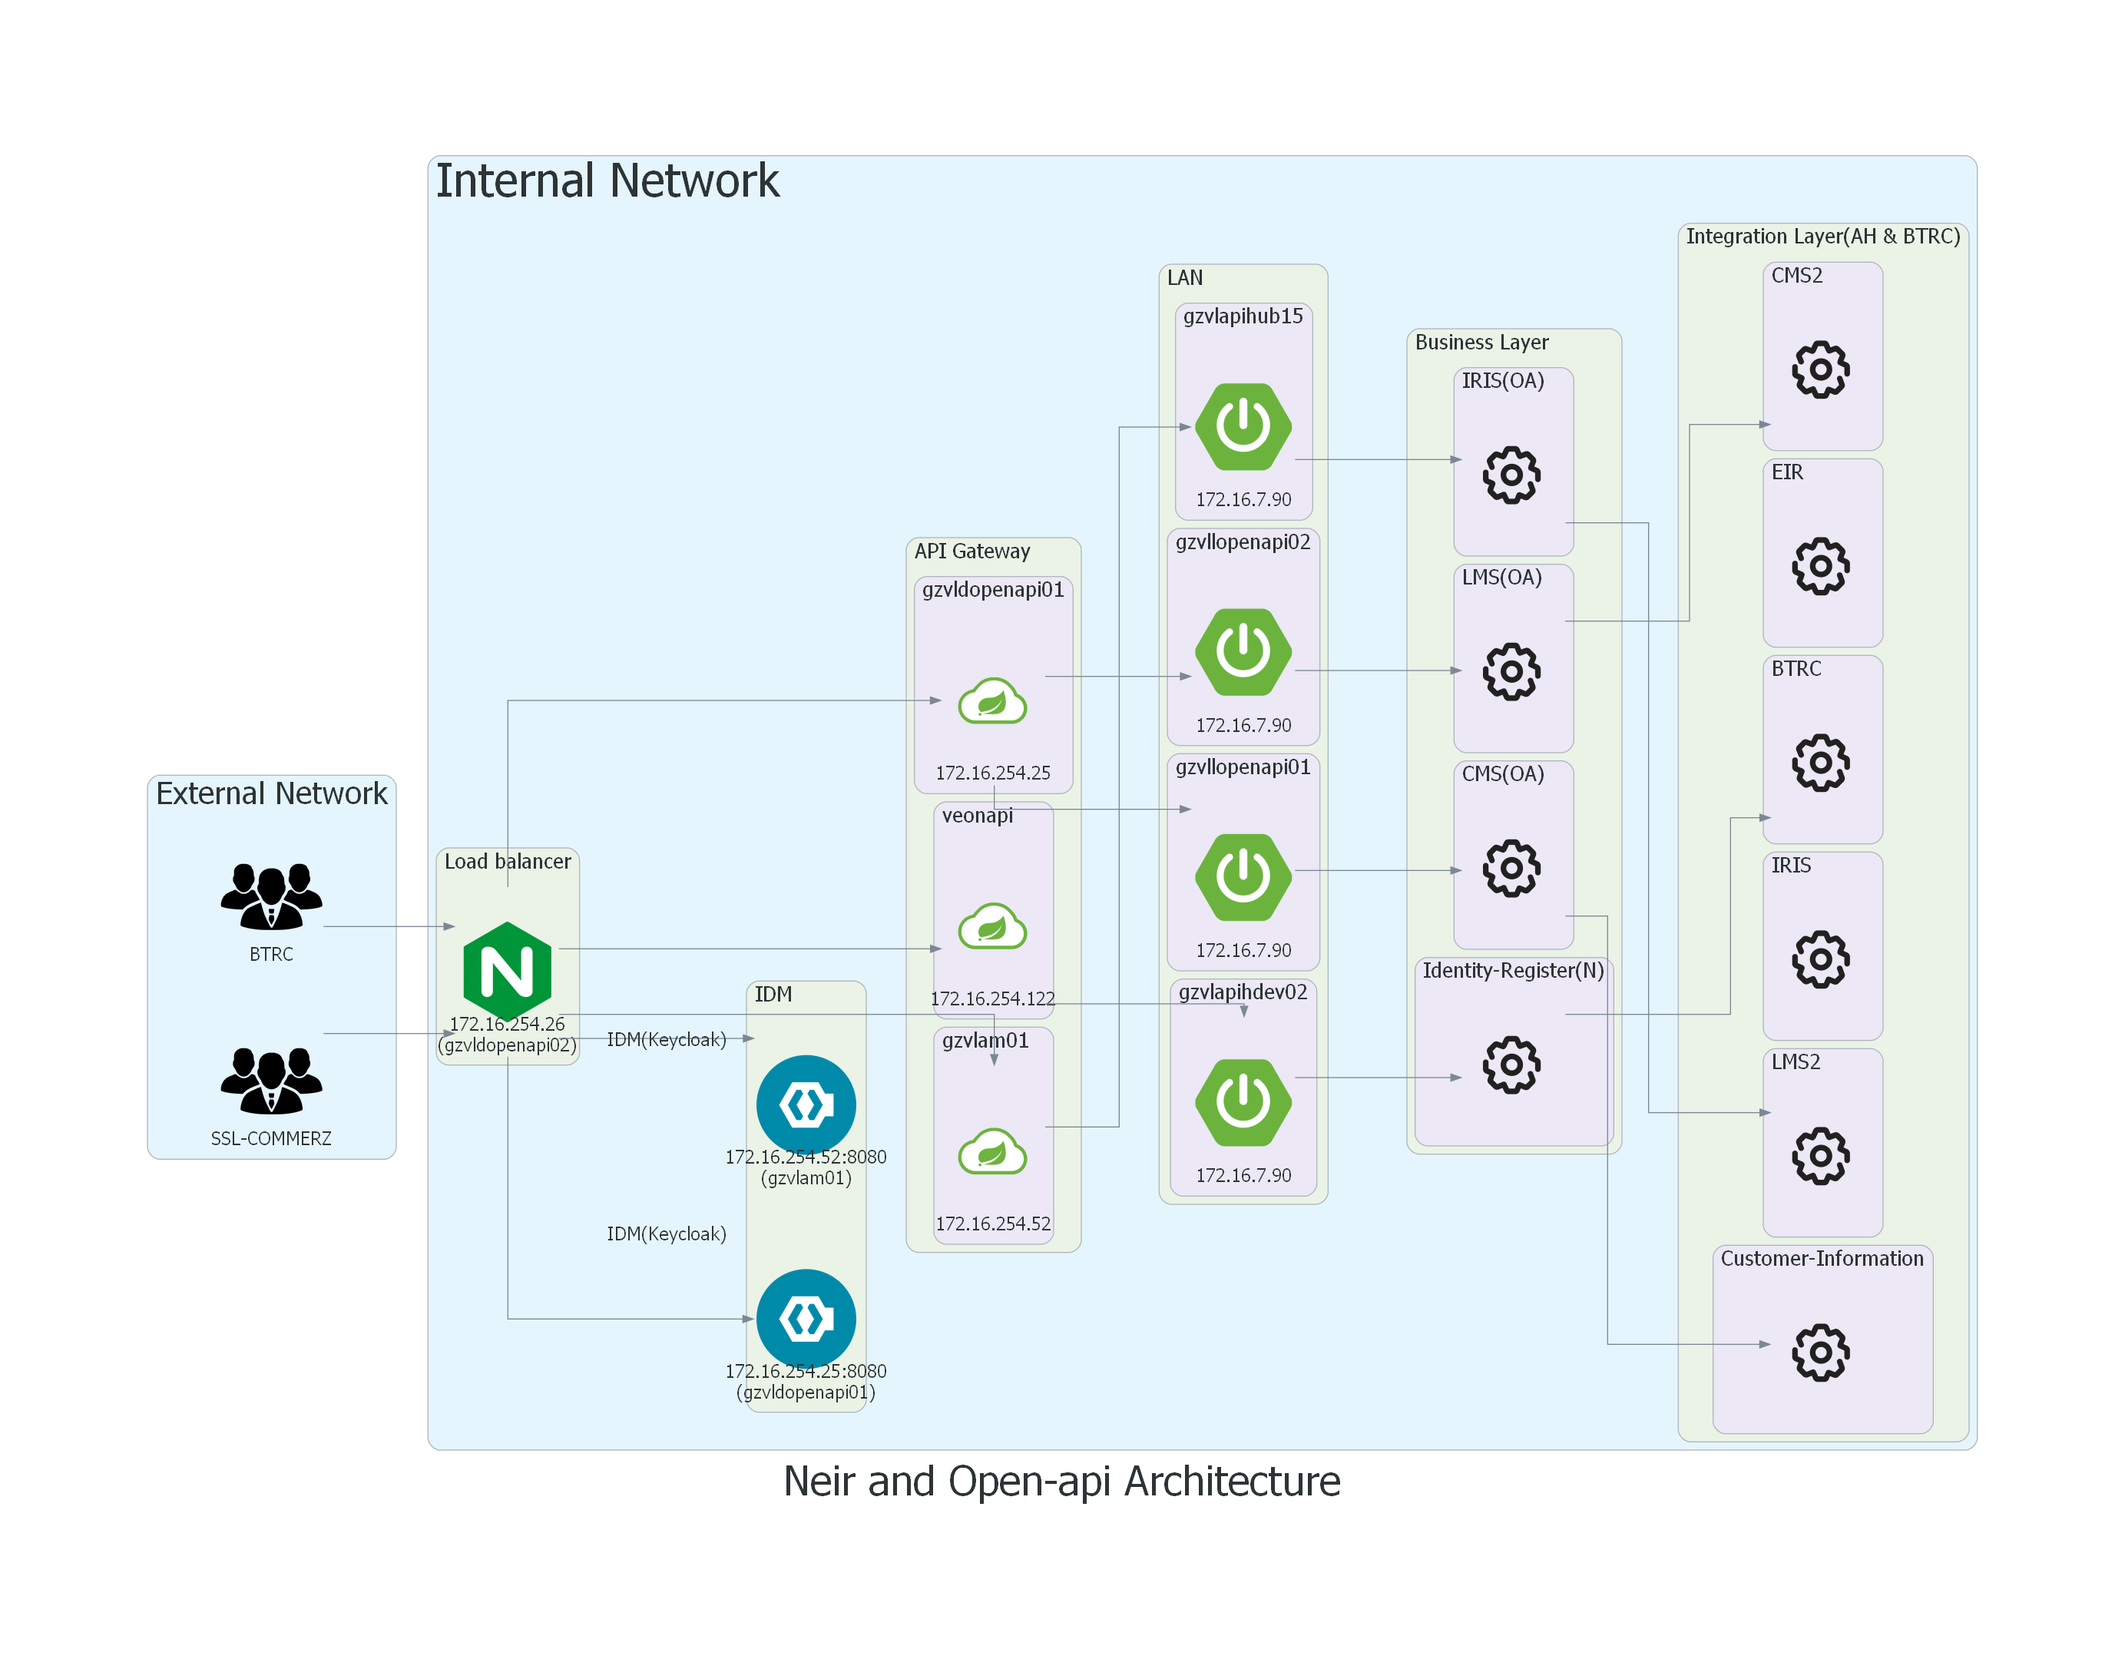
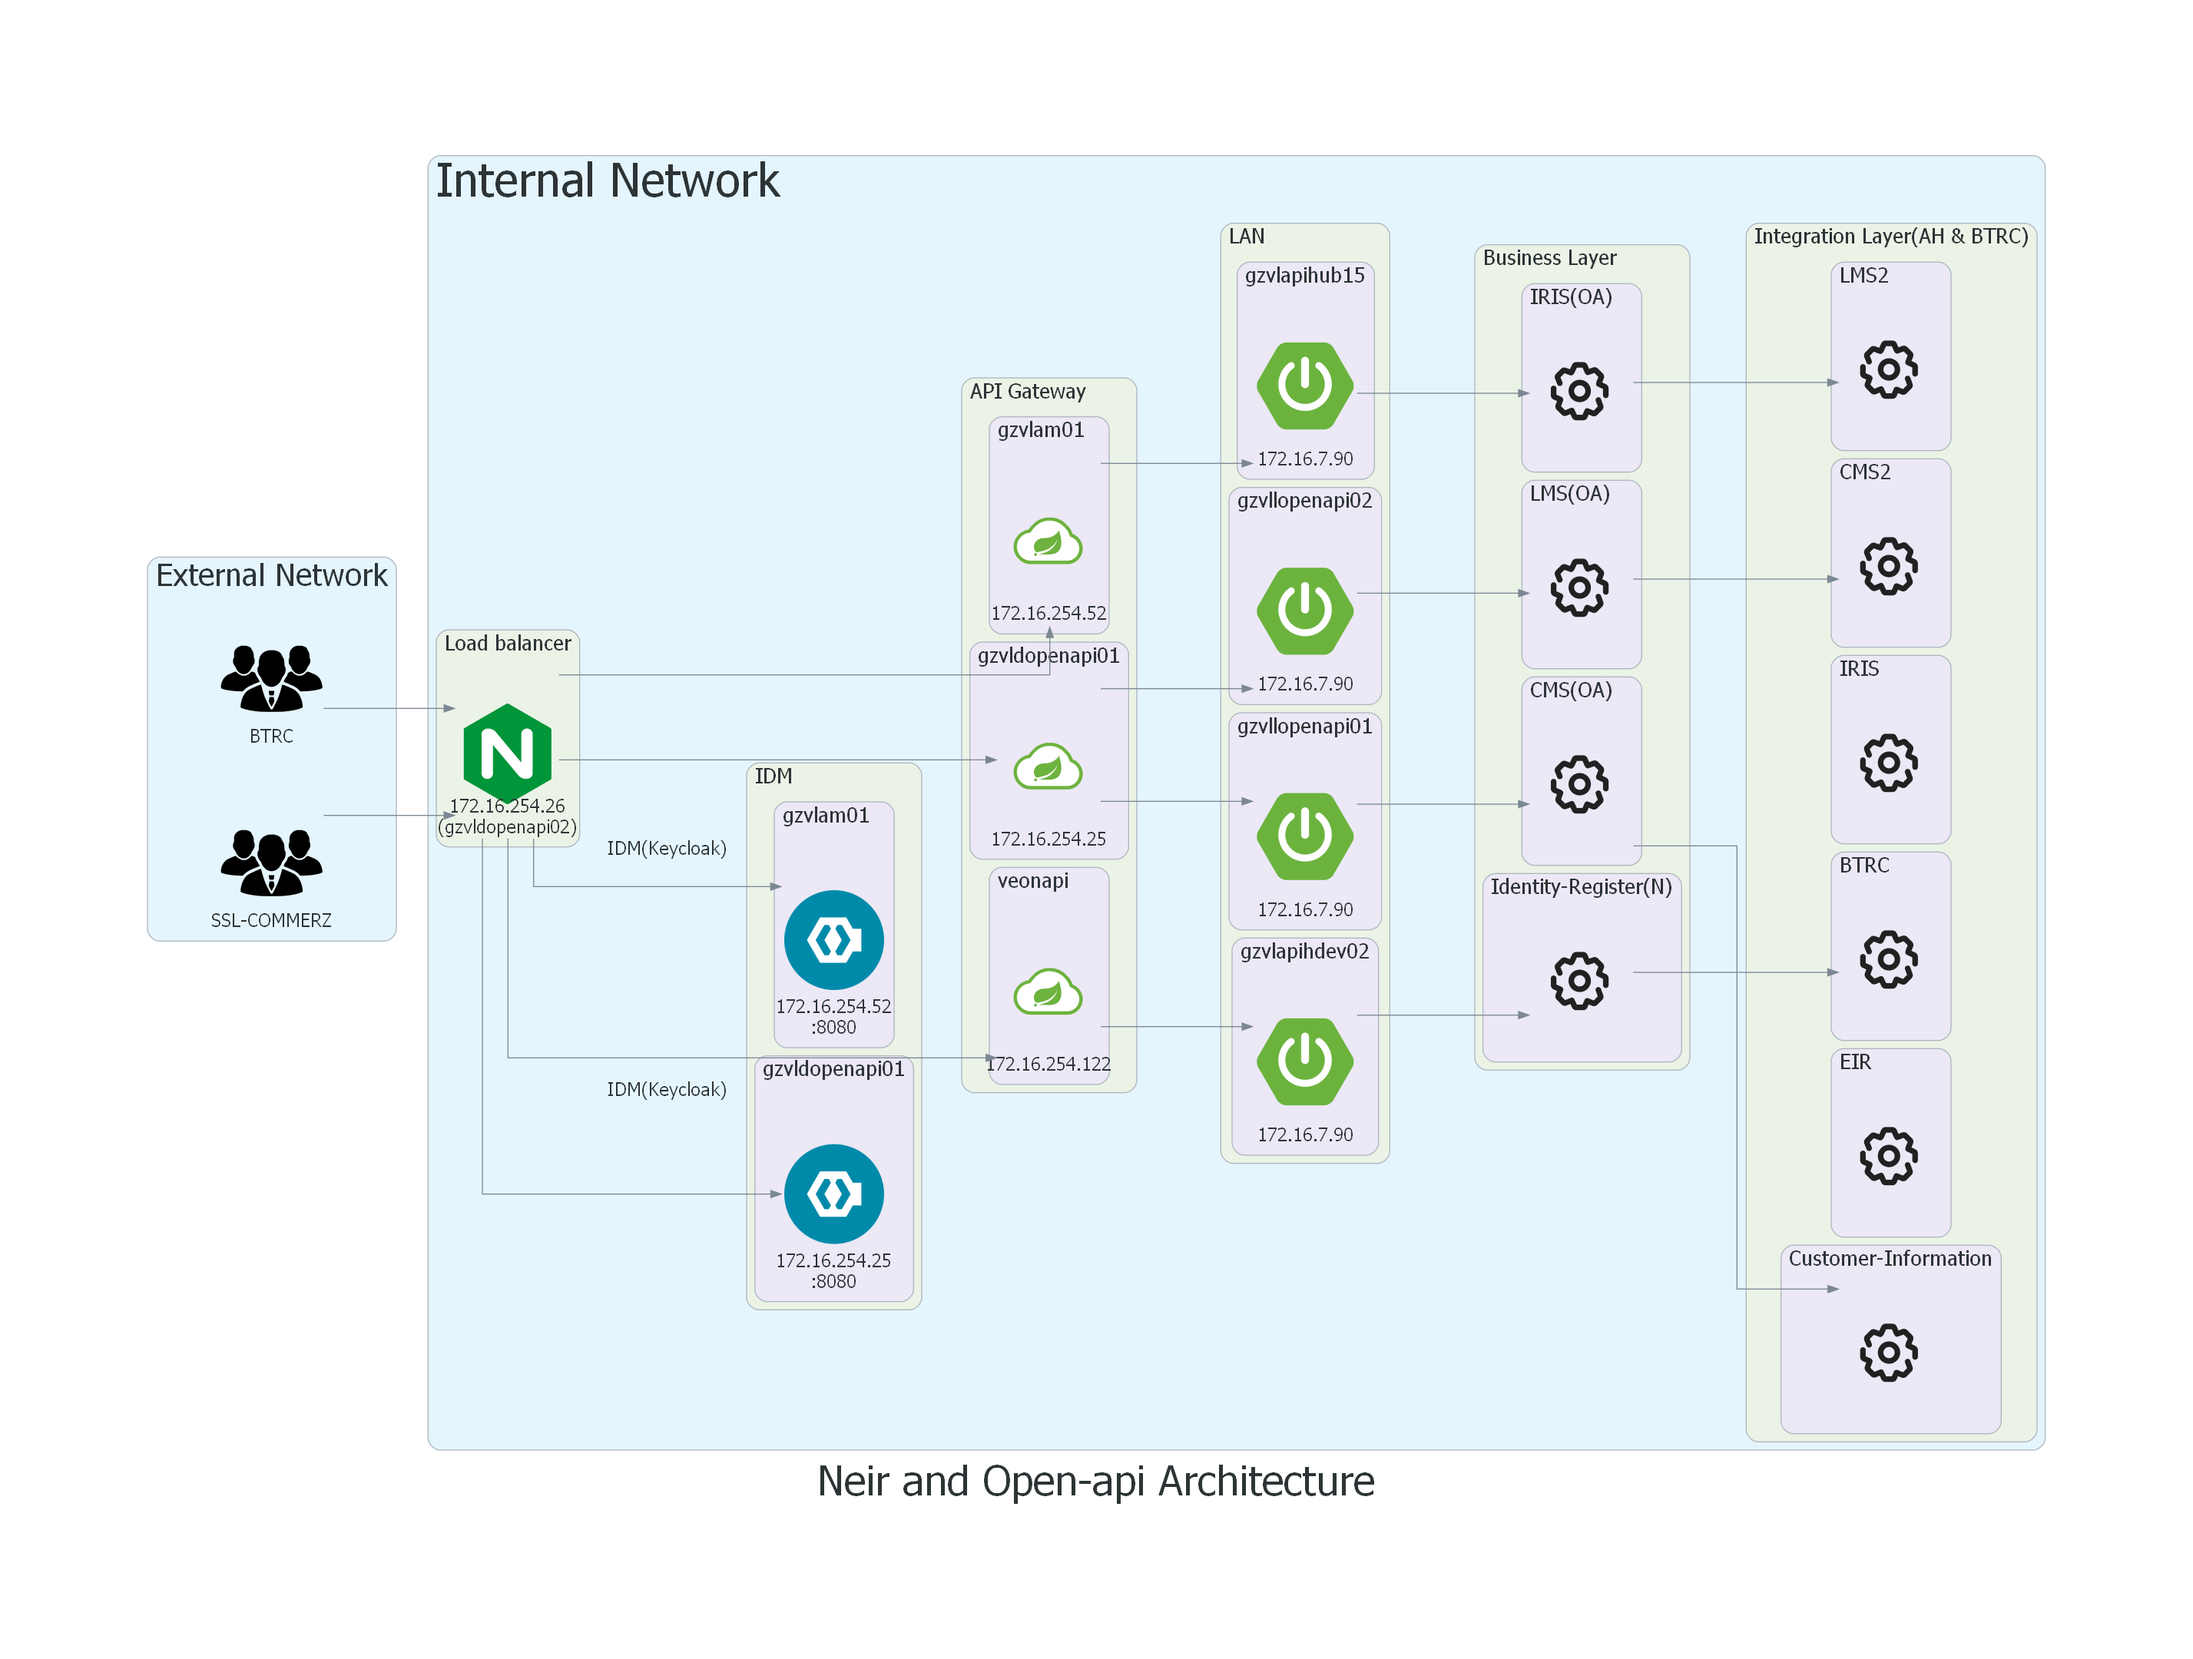
update 11

diff --git a/FinalDiagram.py b/FinalDiagram.py
@@ -15,7 +15,6 @@ srvc = "logos/services.png"
 
 
 graph_attr={
-    "margin-up": "600px",
     "fontsize":"40",
     "fontweight":"bold"
 }
@@ -40,9 +39,12 @@ with Diagram("Neir and Open-api Architecture", show=True,graph_attr=graph_attr):
         with Cluster("Load balancer",graph_attr=graph_font):
             lb = Custom("172.16.254.26\n(gzvldopenapi02)",loadBalancer,fontsize="18px")
         
-        with Cluster("IDM",graph_attr={"fontsize":"20","y":"500"}):
-            idm = [ Custom("172.16.254.25:8080\n(gzvldopenapi01)",IDM,fontsize="18px"),
-                    Custom("172.16.254.52:8080\n(gzvlam01)",IDM,fontsize="18px")]
+        with Cluster("IDM",graph_attr={"fontsize":"20","height":"500"}):
+            with Cluster('gzvldopenapi01',graph_attr=graph_font):
+                idm1 = Custom("\n172.16.254.25\n:8080",IDM,fontsize="18px")
+            with Cluster('gzvlam01',graph_attr=graph_font):
+                idm2 = Custom("\n172.16.254.52\n:8080",IDM,fontsize="18px")
+            
             
         with Cluster("API Gateway",graph_attr=graph_font):
             with Cluster('veonapi',graph_attr=graph_font):
@@ -96,7 +98,8 @@ with Diagram("Neir and Open-api Architecture", show=True,graph_attr=graph_attr):
                 
 
     #ex_clnt >> lb >>Edge(label="IDM(Keycloak)",fontsize="18px")>> idm
-    ex_clnt >> lb >>Edge(label="IDM(Keycloak)",fontsize="18px")>> idm
+    ex_clnt >> lb >>Edge(label="IDM(Keycloak)",fontsize="18px")>> idm1
+    lb >>Edge(label="IDM(Keycloak)",fontsize="18px")>>idm2
     lb >> Edge(fontsize="18px")>> apiG >> lan1
     lb >> Edge(fontsize="18px")>> apiG1
     lb >> Edge(fontsize="18px")>> apiG2 >> lan4
@@ -113,4 +116,5 @@ with Diagram("Neir and Open-api Architecture", show=True,graph_attr=graph_attr):
     
     #to bring IDM in front
     
-    idm - Edge(color="transparent") - apiG2
+   
+    idm2 - Edge(color="transparent") - apiG1
